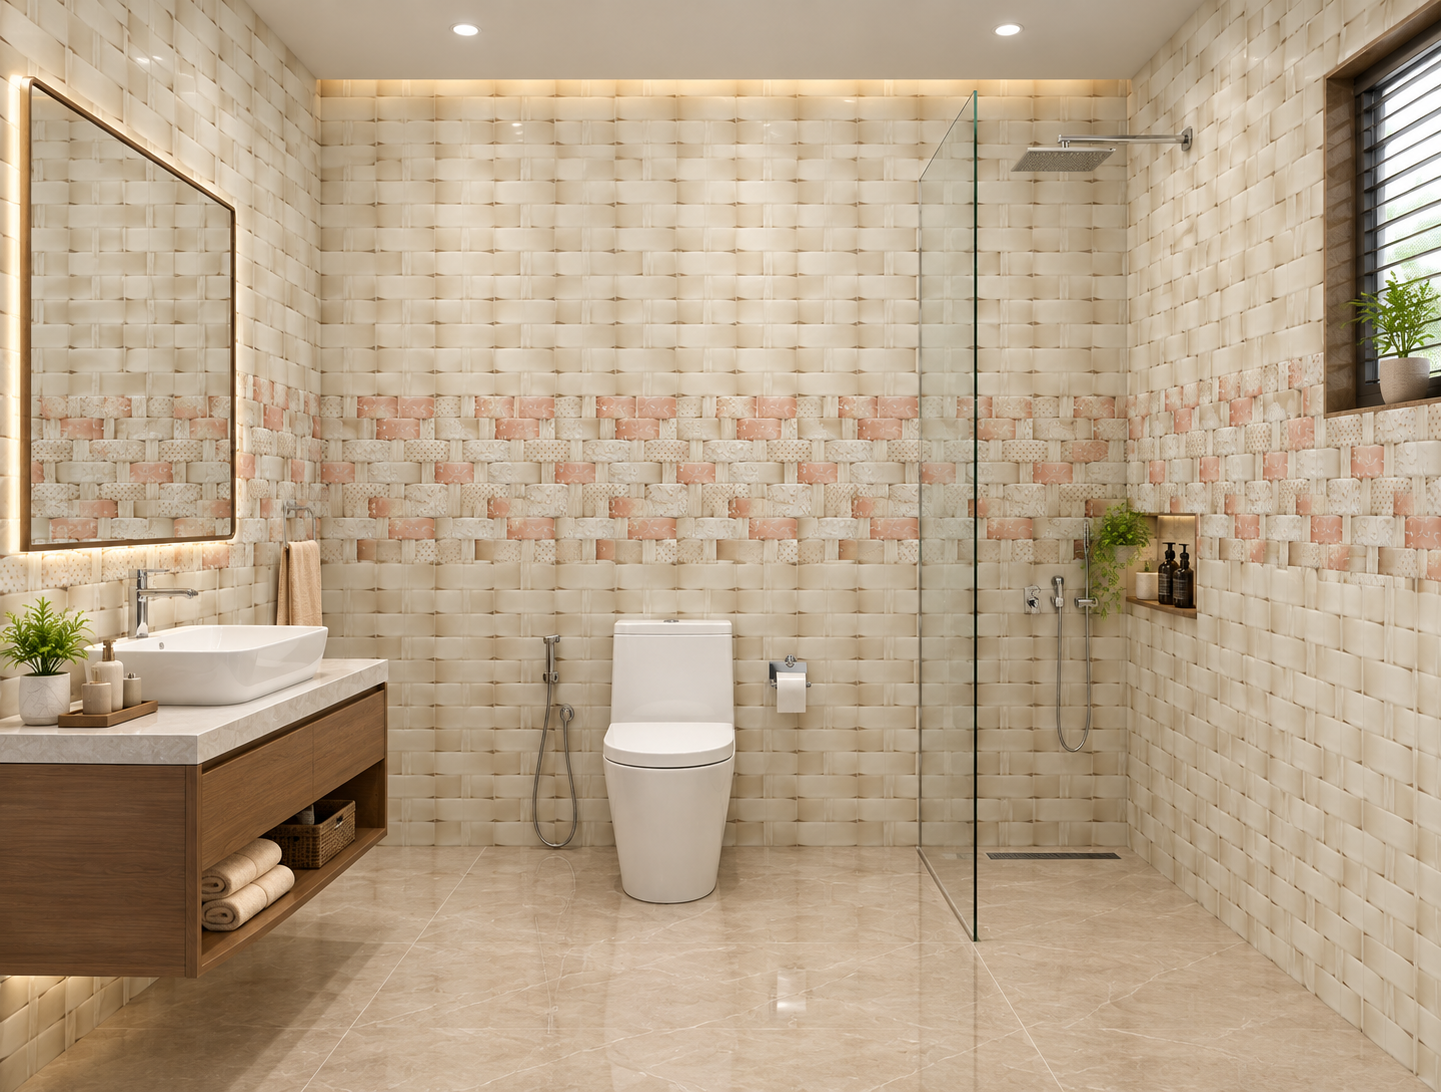
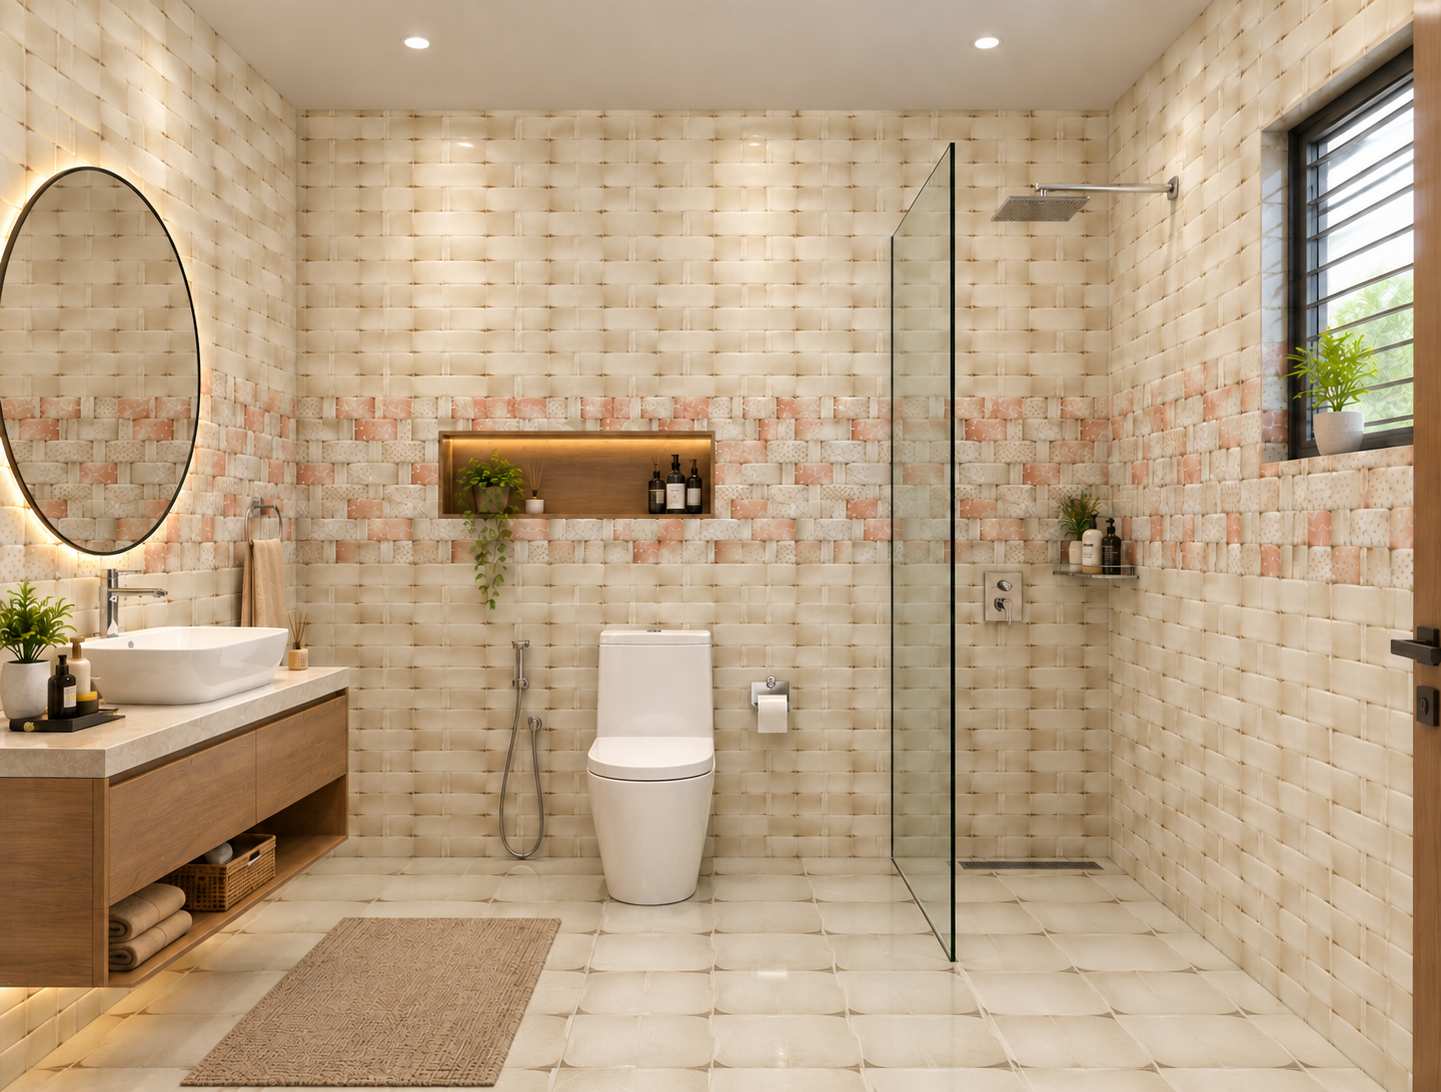
Update Ashoka Showroom website

diff --git a/src/data/siteData.js b/src/data/siteData.js
@@ -171,6 +171,7 @@ export const categories = [
           "/images/tiles/Bathroom/BT2/PF.png",
           "/images/tiles/Bathroom/BT2/view1.png",
           "/images/tiles/Bathroom/BT2/view2.png",
+          "/images/tiles/Bathroom/BT2/view3.png",
         ]
       },
       { 
@@ -181,6 +182,7 @@ export const categories = [
           "/images/tiles/Bathroom/BT3/PF.png",
           "/images/tiles/Bathroom/BT3/view1.png",
           "/images/tiles/Bathroom/BT3/view2.png",
+          "/images/tiles/Bathroom/BT3/view3.png",
         ]
       },
       { 
@@ -191,6 +193,26 @@ export const categories = [
           "/images/tiles/Bathroom/BT4/PF.png",
           "/images/tiles/Bathroom/BT4/view1.png",
           "/images/tiles/Bathroom/BT4/view2.png",
+        ]
+      },
+      { 
+        name: "Bathroom Tile 5", 
+        size: "12 × 18 inc", 
+        description: "Made with high-quality raw materials for long-lasting performance.", 
+        images: [
+          "/images/tiles/Bathroom/BT5/PF.png",
+          "/images/tiles/Bathroom/BT5/view1.png",
+          "/images/tiles/Bathroom/BT5/view2.png",
+        ]
+      },
+      { 
+        name: "Bathroom Tile 6", 
+        size: "12 × 18 inc", 
+        description: "Made with high-quality raw materials for long-lasting performance.", 
+        images: [
+          "/images/tiles/Bathroom/BT6/PF.png",
+          "/images/tiles/Bathroom/BT6/view1.png",
+          "/images/tiles/Bathroom/BT6/view2.png",
         ]
       },
     ],
